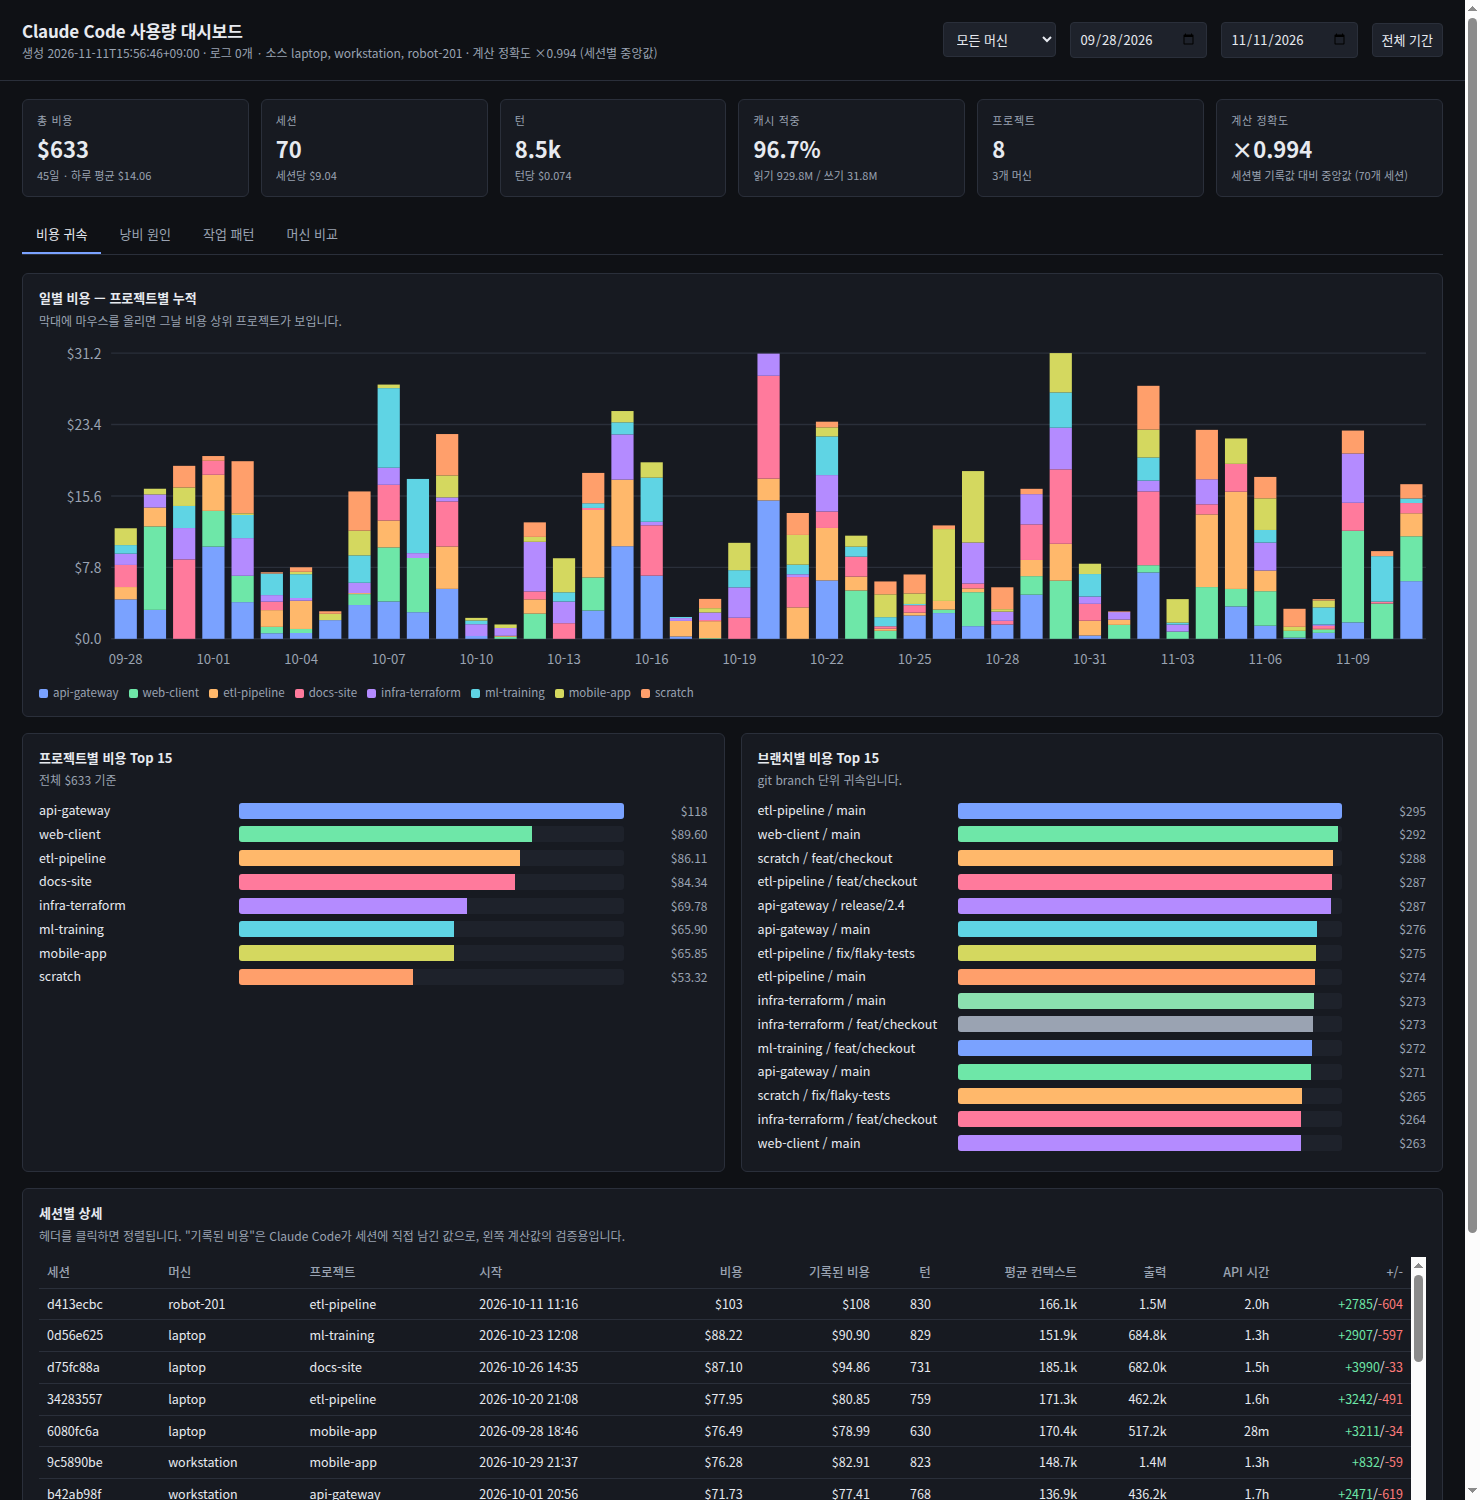
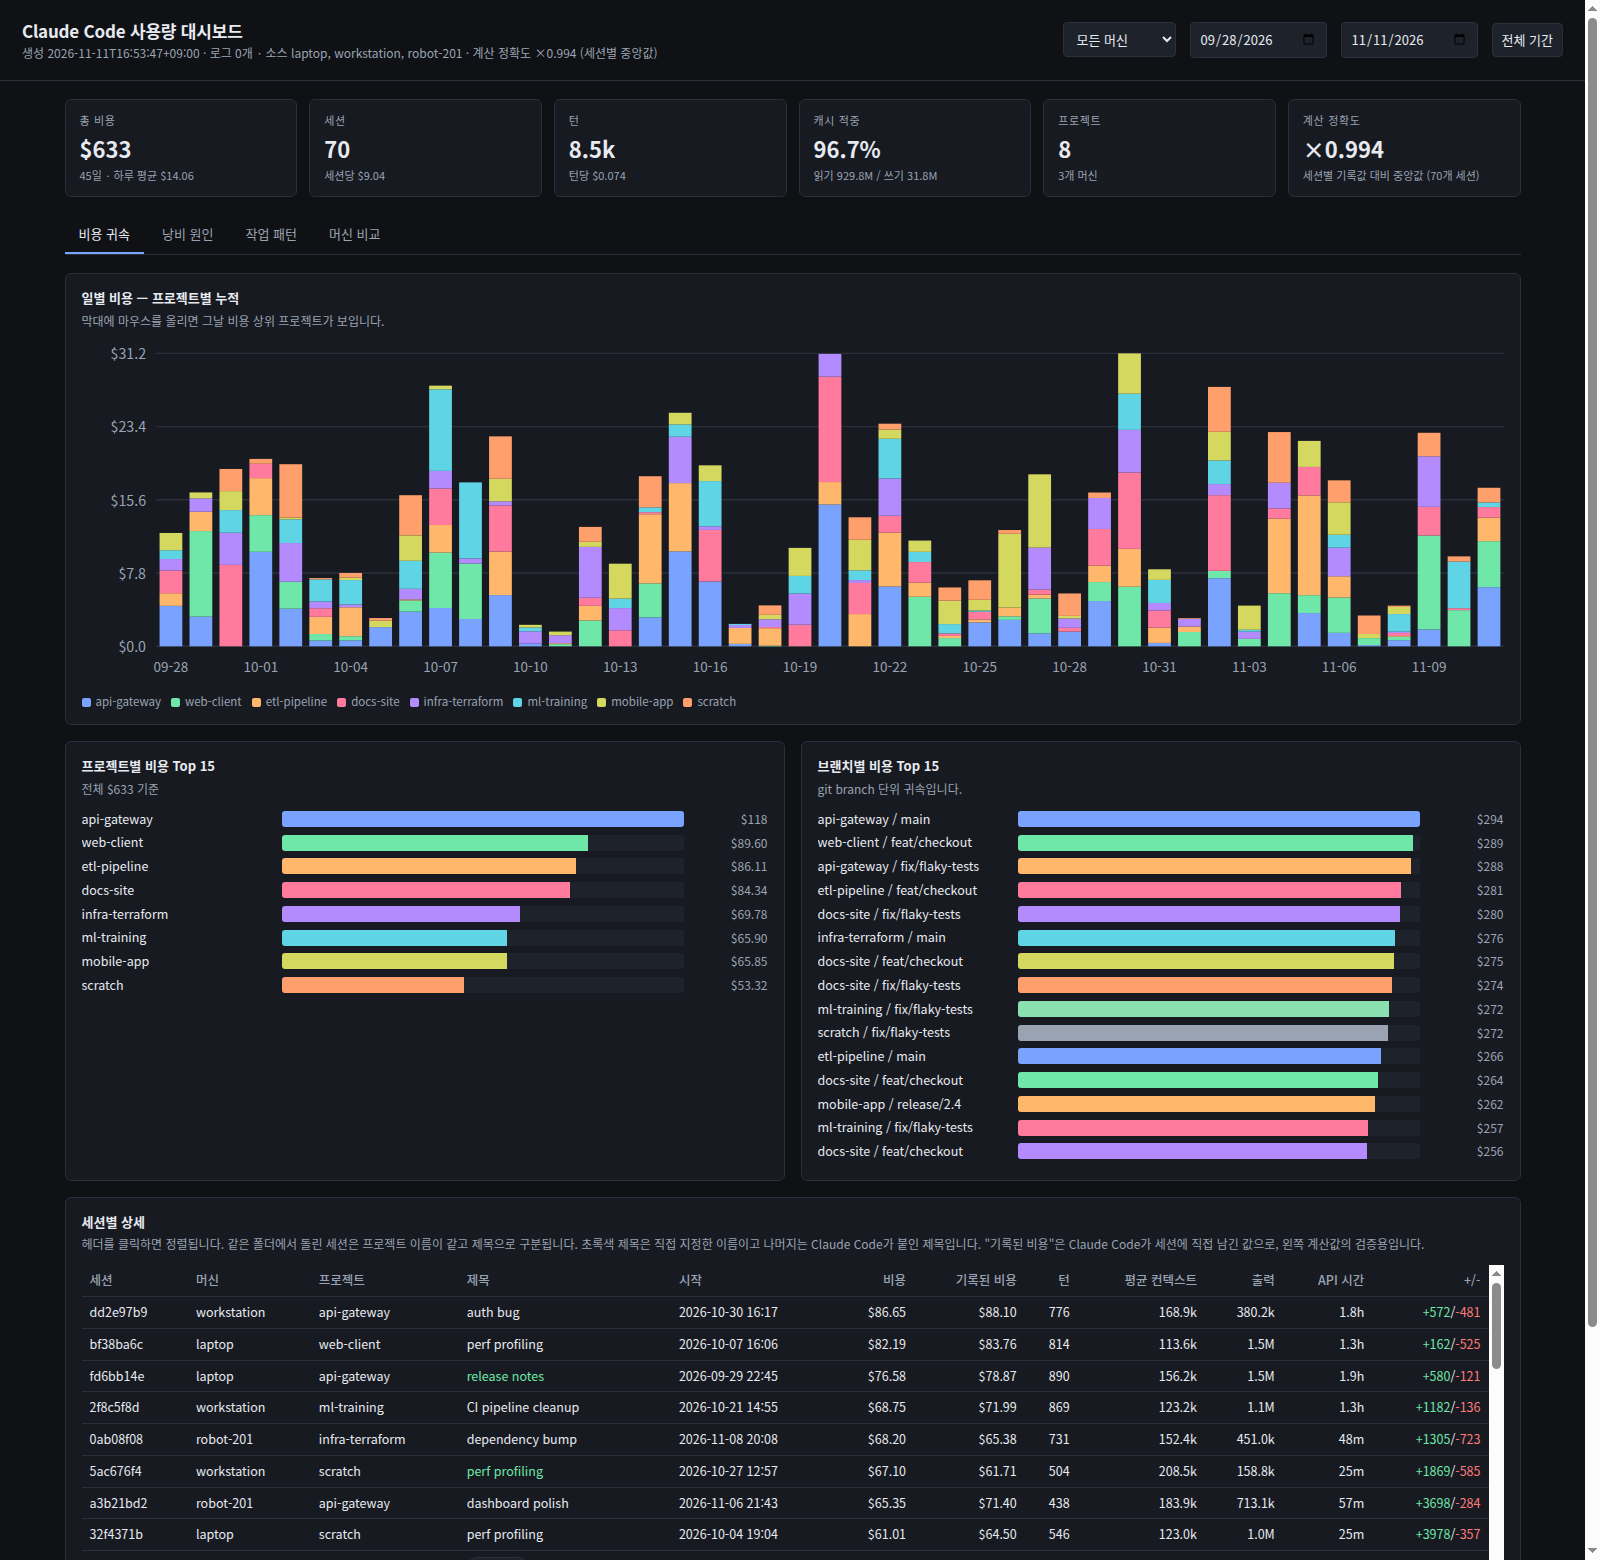
Show session titles so runs from the same directory stay apart
Project attribution is by working directory, which collapses every session
out of one repo into a single name. Read the ai-title / custom-title
records (last one wins, a user-typed name outranks the generated one) and
add a title column to the session table, user-typed names highlighted.

diff --git a/template.html b/template.html
@@ -259,6 +259,10 @@ function tabCost(){
     {h:'세션', l:1, v:s=>s.sid, f:s=>`<span title="${s.sid}">${s.sid.slice(0,8)}</span>`},
     {h:'머신', l:1, v:s=>s.machine, f:s=>s.machine},
     {h:'프로젝트', l:1, v:s=>s.project, f:s=>s.project},
+    {h:'제목', l:1, v:s=>s.title||'~', f:s=>s.title
+       ? `<span title="${s.titled_by==='custom'?'직접 지정한 이름':'자동 생성된 제목'}"`
+         +` style="${s.titled_by==='custom'?'color:var(--ok)':''}">${s.title}</span>`
+       : '<span class="pill">제목 없음</span>'},
     {h:'시작', l:1, v:s=>s.start, f:s=>s.start.slice(0,16).replace('T',' ')},
     {h:'비용', v:s=>s.cost, f:s=>usd(s.cost)},
     {h:'기록된 비용', v:s=>s.declared||0, f:s=>s.declared==null?'<span class="pill">없음</span>':usd(s.declared)},
@@ -268,7 +272,10 @@ function tabCost(){
     {h:'API 시간', v:s=>s.apiMs, f:s=>s.apiMs?dur(s.apiMs):'-'},
     {h:'+/-', v:s=>s.added, f:s=>s.added||s.removed?`<span style="color:var(--ok)">+${s.added}</span>/<span style="color:var(--bad)">-${s.removed}</span>`:'-'},
   ];
-  out.append(panel('세션별 상세', '헤더를 클릭하면 정렬됩니다. "기록된 비용"은 Claude Code가 세션에 직접 남긴 값으로, 왼쪽 계산값의 검증용입니다.',
+  out.append(panel('세션별 상세',
+    '헤더를 클릭하면 정렬됩니다. 같은 폴더에서 돌린 세션은 프로젝트 이름이 같고 제목으로 구분됩니다. '
+    + '초록색 제목은 직접 지정한 이름이고 나머지는 Claude Code가 붙인 제목입니다. '
+    + '"기록된 비용"은 Claude Code가 세션에 직접 남긴 값으로, 왼쪽 계산값의 검증용입니다.',
     table(cols, sess.slice())));
   return out;
 }

diff --git a/tokenwatch.py b/tokenwatch.py
@@ -83,6 +83,7 @@ class Agg:
         self.declared = {}                       # sid -> cost-state totalCostUSD
         self.declared_meta = {}
         self.seen_msgs = set()                   # message.id dedup across all files
+        self.titles = {}                         # sid -> {"ai": ..., "custom": ...}
 
 
 def session_id_of(path: Path, root: Path) -> tuple[str, bool]:
@@ -122,6 +123,16 @@ def scan_file(path: Path, machine: str, agg: Agg, since, until, root: Path):
                 "added": d.get("totalLinesAdded", 0),
                 "removed": d.get("totalLinesRemoved", 0),
             }
+            continue
+
+        # Claude Code renames a session as it goes, so the last record wins.
+        # A title the user typed outranks the generated one.
+        if rtype in ("ai-title", "custom-title"):
+            t = agg.titles.setdefault((machine, d.get("sessionId") or sid), {})
+            if rtype == "ai-title":
+                t["ai"] = d.get("aiTitle") or t.get("ai")
+            else:
+                t["custom"] = d.get("customTitle") or t.get("custom")
             continue
 
         msg = d.get("message") or {}
@@ -252,6 +263,9 @@ def to_payload(agg: Agg, sources, files):
                  removed=meta.get("removed", 0))
         s["ctx_avg"] = round(s["ctx_sum"] / s["turns"]) if s["turns"] else 0
         del s["ctx_sum"]
+        t = agg.titles.get(key) or {}
+        s["title"] = t.get("custom") or t.get("ai") or ""
+        s["titled_by"] = "custom" if t.get("custom") else ("ai" if t.get("ai") else "")
         sessions.append(s)
     sessions.sort(key=lambda x: -x["cost"])
 
@@ -328,6 +342,9 @@ def demo_payload():
                 for _ in range(max(turns // 12, 1)):
                     hour = int(rnd.triangular(8, 23, 15))
                     heat[(m, day.weekday(), hour)] += c / max(turns // 12, 1)
+    topics = ["checkout flow refactor", "flaky test triage", "schema migration",
+              "CI pipeline cleanup", "auth bug", "dashboard polish", "log ingestion",
+              "release notes", "dependency bump", "perf profiling", "", ""]
     for i in range(70):
         m = rnd.choice(machines)
         p = rnd.choice(projects)
@@ -348,7 +365,9 @@ def demo_payload():
             apiMs=turns * rnd.randint(2_000, 9_000), toolMs=turns * rnd.randint(500, 4_000),
             wallMs=turns * rnd.randint(10_000, 40_000),
             added=rnd.randint(0, 4_000), removed=rnd.randint(0, 900),
-            ctx_avg=(cr + cw) // max(turns, 1)))
+            ctx_avg=(cr + cw) // max(turns, 1),
+            title=rnd.choice(topics),
+            titled_by=rnd.choice(["ai", "ai", "ai", "custom"])))
     sessions.sort(key=lambda s: -s["cost"])
     return {
         "meta": {"generated": dt.datetime.now().astimezone().isoformat(timespec="seconds"),

diff --git a/README.ko.md b/README.ko.md
@@ -37,7 +37,9 @@ TokenWatch는 이 네 가지 질문에 탭 하나씩으로 답합니다.
 ## 무엇을 보여주는가
 
 **비용 귀속** — 프로젝트별로 쌓은 일별 비용, 프로젝트·git branch 단위 랭킹, 그리고 턴 수와
-평균 컨텍스트, API 시간, 변경 줄 수까지 담은 세션 표를 제공합니다.
+평균 컨텍스트, API 시간, 변경 줄 수까지 담은 세션 표를 제공합니다. 세션마다 Claude Code가
+붙인 제목이 함께 나오기 때문에, 같은 디렉터리에서 돌린 세션이 여러 개여도 구분됩니다. 직접
+지정한 이름은 초록색으로 표시됩니다.
 
 **낭비 원인** — 같은 일별 비용을 프로젝트가 아니라 *토큰 종류*로 나눕니다. 캐시 읽기, 캐시
 쓰기, 출력, 비캐시 입력은 단가가 각각 다르기 때문에, 이 그래프가 돈이 실제로 무엇에 쓰였는지
@@ -125,7 +127,9 @@ python3 tokenwatch.py \
    단가를 적용합니다.
 3. 서브에이전트 기록은 `<세션>/subagents/**.jsonl` 에 따로 쌓이며 실제로 비용을 발생시킵니다.
    이 기록도 읽어서 그것을 생성한 세션에 귀속시킵니다.
-4. Claude Code는 자체 누적 비용을 담은 `cost-state` 레코드도 남깁니다. TokenWatch는 세션별로
+4. 세션 제목은 `ai-title` 과 `custom-title` 레코드에서 가져옵니다. 세션이 진행되는 동안
+   계속 갱신되므로 마지막 값을 쓰고, 직접 지정한 이름이 자동 생성된 제목보다 우선합니다.
+5. Claude Code는 자체 누적 비용을 담은 `cost-state` 레코드도 남깁니다. TokenWatch는 세션별로
    자신의 계산을 이 값과 대조하고 결과를 출력합니다.
 
    ```

diff --git a/README.md b/README.md
@@ -39,6 +39,8 @@ TokenWatch answers those four questions, one per tab.
 
 **Cost attribution** — daily cost stacked by project, ranked by project and by git branch, and
 a sortable table of every session with its turns, average context, API time and lines changed.
+Sessions carry the title Claude Code gave them, so several runs out of the same directory stay
+told apart; a name you typed yourself is shown in green.
 
 **Waste tracing** — the same daily cost split by *token kind* instead of project. Cache reads,
 cache writes, output and uncached input are priced separately, so the chart shows what your
@@ -128,7 +130,10 @@ side by side.
    all turns. TokenWatch deduplicates on `message.id` before pricing anything.
 3. Subagent transcripts live in `<session>/subagents/**.jsonl` and cost real money. They are
    read too, and billed to the session that spawned them.
-4. Claude Code also writes a `cost-state` record holding its own running total.
+4. Session titles come from the `ai-title` and `custom-title` records, which Claude Code
+   rewrites as a session goes on. The last one wins, and a title you typed outranks the
+   generated one.
+5. Claude Code also writes a `cost-state` record holding its own running total.
    TokenWatch compares its arithmetic against that record per session and prints the result:
 
    ```
